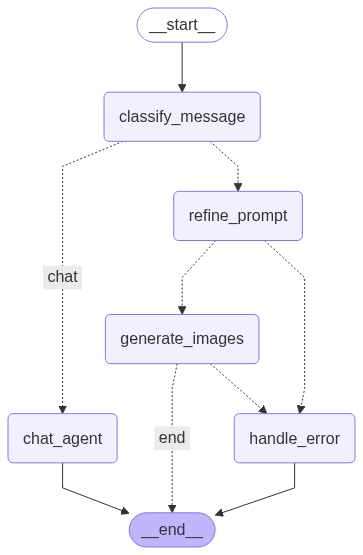
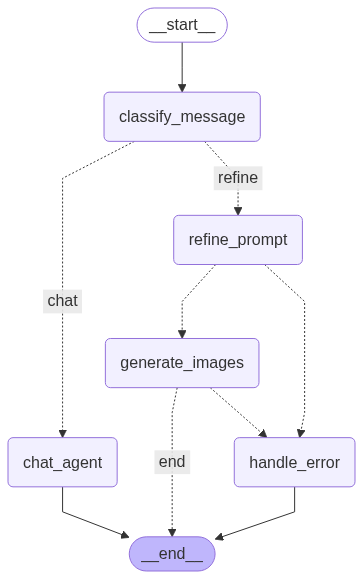
Added chat prompt

diff --git a/src/imageagents/graph.py b/src/imageagents/graph.py
@@ -5,7 +5,7 @@ from langgraph.graph import START, END, StateGraph
 from .state import ImageState, MessageClassifier
 import os
 from .models import get_chat_model, get_image_gen_client
-from .prompts import CREATE_IMAGE_PROMPT
+from .prompts import CREATE_IMAGE_PROMPT, CHAT_PROMPT
 
 
 def chat_agent(state: ImageState) -> ImageState:
@@ -15,9 +15,7 @@ def chat_agent(state: ImageState) -> ImageState:
     messages = [
         {
             "role": "system",
-            "content": """
-            You are an intelligent chat bot that helps answer user queries
-            """ 
+            "content": CHAT_PROMPT
         },
         {
             "role": "user",
@@ -139,7 +137,7 @@ def route_decision(state: ImageState) -> str:
     message_type = state.get("message_type", "chat")
     
     if message_type == "image":
-        return "refine_prompt"
+        return "refine"
     else:
         return "chat"
 
@@ -182,7 +180,7 @@ def create_image_generation_graph():
         route_decision,
         {
             "chat": "chat_agent",
-            "refine_prompt": "refine_prompt"
+            "refine": "refine_prompt"
         }
     )
     

diff --git a/src/imageagents/prompts.py b/src/imageagents/prompts.py
@@ -13,6 +13,13 @@ When given a USER_PROMPT, enhance it by:
 
 Transform vague prompts into vivid, specific descriptions that AI image generators can interpret effectively. Focus on visual elements that directly impact image quality and composition.
 
-USER_PROMPT:
+USER : {last_message}
 
+"""
+
+CHAT_PROMPT = """
+You are a helpful AI assistant. Answer the user's question as clearly and accurately as possible.
+
+User: {last_message}
+Assistant:
 """

diff --git a/test.py b/test.py
@@ -22,7 +22,7 @@ def main():
         try:
             user_input = input("\n💭 Enter your message: ").strip()
             
-            if user_input.lower() in ['quit', 'exit', 'q']:
+            if user_input.lower() in ['quit', 'exit', 'q', '/bye']:
                 print("Goodbye!")
                 break
             
